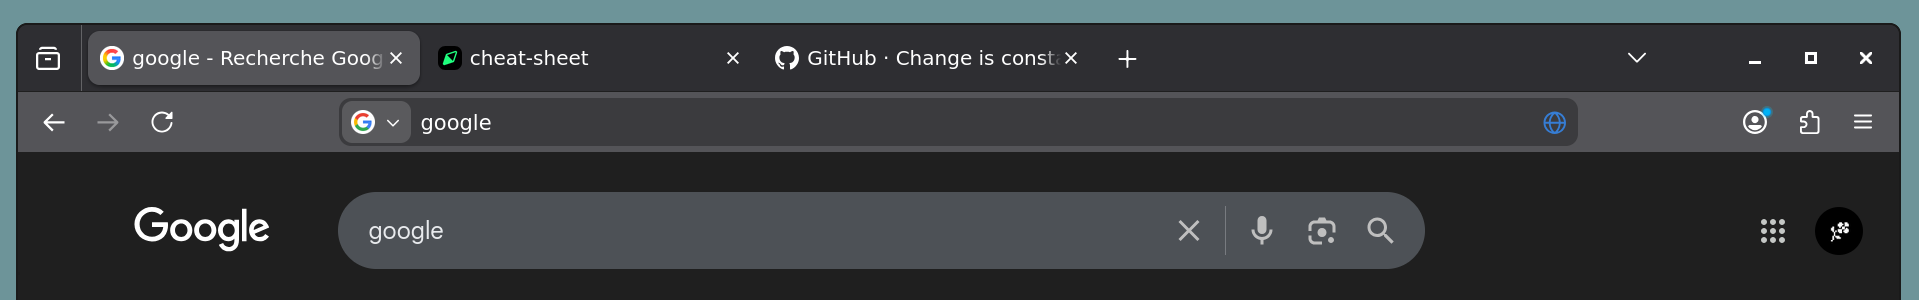
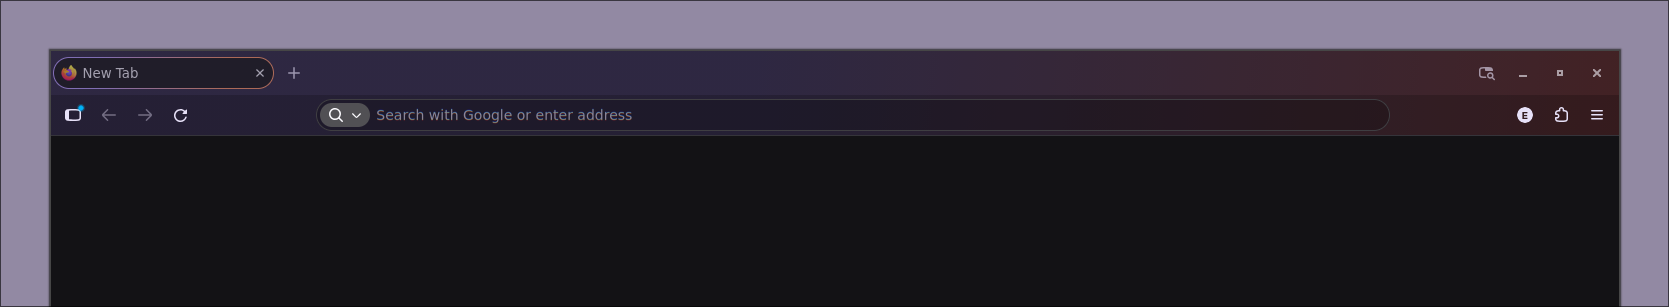
v2

diff --git a/userChrome.css b/userChrome.css
@@ -1,121 +1,88 @@
-/* toolkit.legacyUserProfileCustomizations.stylesheets */
-:root{
-    --bg: black;
-    --overlay: hsl(0,0%,8%);
-    --overlay-2: hsl(0,0%,14%);
-    --overlay-3: hsl(0,0%,27%);
-}
-
-
-/* tab section (first raw on nativ Chrome ui) */
-#tabbrowser-arrowscrollbox-periphery, /* tab [+] button */
-#alltabs-button,                      /* tab [v] button */
-hbox.titlebar-spacer,                 /* tab left spacer */
-hbox.titlebar-buttonbox-container,    /* window [-] [o] [x] button */
-#customizableui-special-spring1,      /* don't know */
-#customizableui-special-spring2,      /* don't know */
-tab.tabbrowser-tab:not([pinned], [fadein]),
-
-/* url section (seconf raw on nativ Chrome ui) */
-#firefox-view-button,                 /* firefox view button */
-#reload-button,                       /* reload page button */
-#fxa-toolbar-menu-button,             /* user profile-picture icon */
-#PanelUI-menu-button,                 /* toolbar [≡] button */
-#back-button,                         /* back page [<-] button */
-#forward-button,                      /* nex page [->] button */
-image.tab-close-button.close-icon,    /* close tav [x] button */
-
-/* in-url icons */
-#urlbar-searchmode-switcher,          /* search engine icon */
-#tracking-protection-icon-container,  /* https icon*/
-#identity-icon-box,                   /* verified domain icon */
-#reader-mode-button,                  /* reader mode icon */
-#translations-button,                 /* translation icon */
-#PersonalToolbar                      /* 3th section with pinned link etc...*/
-{                 
-    display:  none !important;
-}
-
-
-#tabbrowser-tabs{ /* tabs container */
-    border-left: none !important;
-}
-
-
-
-/* url search bar container */
-#urlbar-container{
-    flex: auto !important;
-
-    /* giving left space between input zone and left icons */
-    moz-input-box.urlbar-input-box{
-        padding-left: 10px !important;
-    }
-}
-
-
 #navigator-toolbox{
-    /* instead of 2 raws (tags / url), using juste 1 :
-      [ navigation | search | plugin ] [ tabs             ]
-                 500px                    rest of space
-    */
-    display: grid; 
-    grid-template-columns: 500px 1fr;
+    display: grid;
+    grid-template-columns: 600px 1fr;
     grid-template-areas:
-    "div2 div1"
-    "div3 div3";
+    "menu menu"
+    "nav tab"
+    "personal personal"
+    "notification notification";
 
-    /* [ navigation | search | plugin ] */
-    #nav-bar {
-        grid-area: div2;
-        background-color: var(--bg) !important;
+
+    #toolbar-menubar{ grid-area: menu; }
+
+
+    #nav-bar{
+        grid-area: nav;
+
+        /* application menu (3 strokes button) */
+        #PanelUI-button{ display: none !important;}
+
+        /* button to toggle sidebar view */
+        #sidebar-button{ display: none !important;}
+
+        /* nav button prev/next/reload*/
+        #back-button, #forward-button, #stop-reload-button{ display: none !important;}
+
+        /* space between reload and search-bar */
+        #customizableui-special-spring1{display: none !important;}
+
+        /* profile button (profile picture) */
+        #fxa-toolbar-menu-button{display: none !important;}
+
+        /* plugin button, prefer to keep it visible cause some plugins need interaction */
+        #unified-extensions-button { /* display: none !important; */ }
+
+        /* space between searchbar and profile button */
+        #customizableui-special-spring2{ display: none !important; }
+
+        /* searchbar */
+        #urlbar-container{
+
+            /* shield icon for trusted website (https)*/
+            #trust-icon-container{ display: none !important; }
+
+            /* container with icon and name of the actual website */
+            #identity-box{ display: none !important; }
+            /*
+            Left-right spacing for URL text in search box.
+            Identity-box is removed, so I find it nicer to increase the spacing a bit.
+            /!\ By default, this value is computed from dynamic variables; fixing it could lead to edge-case spacing issues.
+            */
+            .urlbar-input-box{ margin-inline: 0.5em !important;}
+
+            /* pourcentage zoom of website */
+            #urlbar-zoom-button{display: none !important; }
+
+            /* Translate button */
+            #translations-button{ display: none !important; }
+
+
+            /* fine-thune spacing */
+            margin-inline-start: 0.8em;
+
+        }
     }
-    
-    /* [ tabs      ] */
-    #TabsToolbar {
-        grid-area: div1;
-        background-color: var(--bg) !important;
-        border-left: 1px solid #3a3944 !important;
+
+
+    #TabsToolbar{
+        grid-area: tab;
+
+        /* minimize/maximize/close container */
+        .titlebar-buttonbox-container{ display: none !important; }
+
+        .toolbar-items{
+            /* fine-thuning of space between search container and tab container */
+            margin-left: 0.5em;
+
+            /* spacer between new-tab button and  all-tabs button*/
+            #customizableui-special-spring3{ display: none !important; }
+            /* button for "all tabs" management */
+            #alltabs-button{ display: none !important;}
+        }
     }
-}
 
 
-tab.tabbrowser-tab{
-    max-width: 150px !important;
-}
+    #PersonalToolbar{ grid-area: personal; }
+    #notifications-toolbar{ grid-area: notification; }
 
-
-/* fine thune spacing */
-#TabsToolbar{
-  padding-bottom: 3px;
-}
-#nav-bar-customization-target{
-  padding: 3px;
-}
-
-
-
-/* color of tabs */
-vbox.tab-background{
-    background-color: var(--overlay) !important;
-}
-
-/* color of current tab */
-tab:where([visuallyselected]) vbox.tab-background{
-    background-color: var(--overlay-2) !important;
-}
-
-
-/* color of url (search bar) */
-.urlbar:is([focused],[open]) > .urlbar-background,
-.urlbar-background {
-  background-color: var(--overlay) !important;
-}
-/* color of url/search result options */
-.urlbarView-row {
-  background-color: var(--overlay-2) !important;
-  
-  &[row-selectable]:is([selected]), &[row-selectable]:not([selected]):hover  {
-    background-color: var(--overlay-3) !important;
-  }
 }

diff --git a/README.md b/README.md
@@ -12,24 +12,13 @@ A minimal Firefox UI without useless buttons or icons; using keyboard shortcuts 
 ## Installation
 1. Download `userChrome.css`
 2. Type `about:profiles` in the Firefox address bar to access profile settings.
-3. Create a new profile (Optional: you can also use an existing one).
-4. Go to the Root Directory of the profile (e.g., `.../.mozilla/firefox/xxxxxxxx.default`).
-5. Navigate to the chrome/ folder (if it doesn't exist, create it)
-6. Copy the downloaded userChrome.css into that folder
-7. Go to `about:config`, search for `toolkit.legacyUserProfileCustomizations.stylesheets`, and set it to true.
+3. Go to the Root Directory of your profile (e.g., `.../.mozilla/firefox/xxxxxxxx.default`).
+4. Navigate to the chrome/ folder (if it doesn't exist, create it)
+5. Copy the downloaded userChrome.css into that folder
+6. Go to `about:config`, search for `toolkit.legacyUserProfileCustomizations.stylesheets`, and set it to true.
 
-## Sorry for the css
-Since this is a small project and the Firefox UI is difficult to reverse-engineer, the CSS overrides are based on empirical testing using the Browser Toolbox (Inspector).
+## Customise css
+I chose to remove buttons that seemed unnecessary for my purposes (since I use keyboard shortcuts or the `about:` in url). The CSS is commented, so you can easily restore elements or customize them however you like.
 
-Side effects are possible; for now, consider this a "works on my machine" level of maturity. However, the CSS is heavily commented, making it easy for you to tweak and edit the code to suit your specific needs.
-
-## Shorcuts
-Since many buttons have been removed, navigation relies on shortcuts. Here are the ones related to the hidden elements:
-- Tab : New > `ctrl + t`
-- Tab : Close current > `ctrl + w`
-- Tab : Nex > `ctrl + tab`
-- Tab : previous > `ctrl + shift + tab`
-- Search > `ctrl + l`
-- page : next > `ctrl + ]`
-- page : previous > `ctrl + [`
-- history > `ctrl + h`
+## Firefox Theme Compatible
+`userChrome.css` do not change any colors; this way, all classic Firefox themes will work with it
